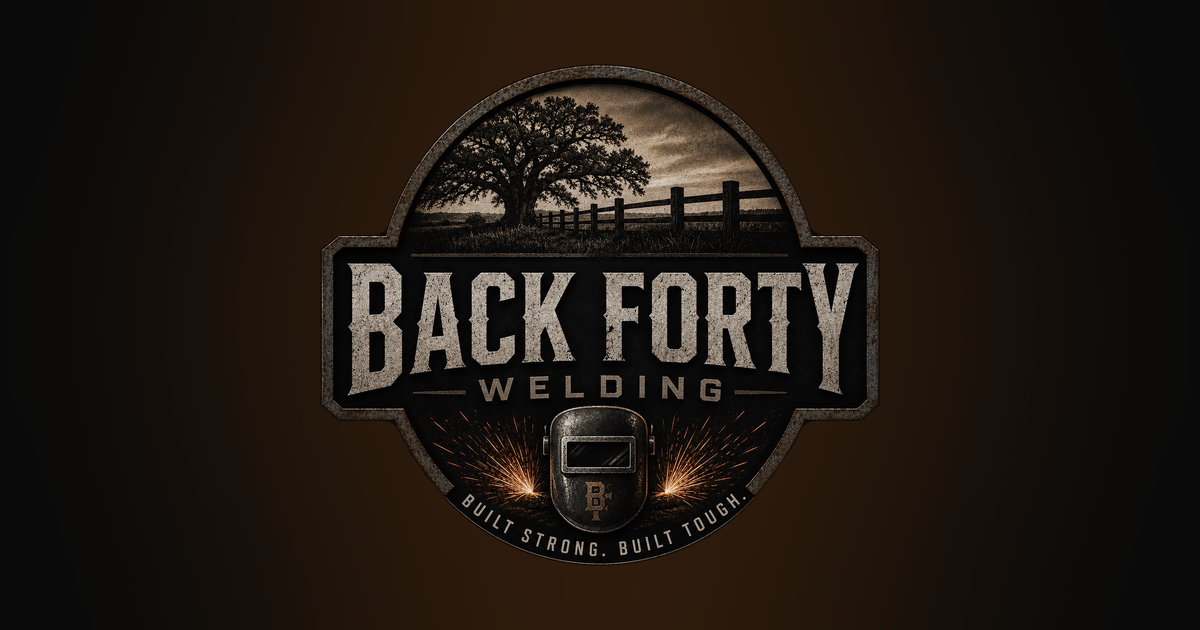
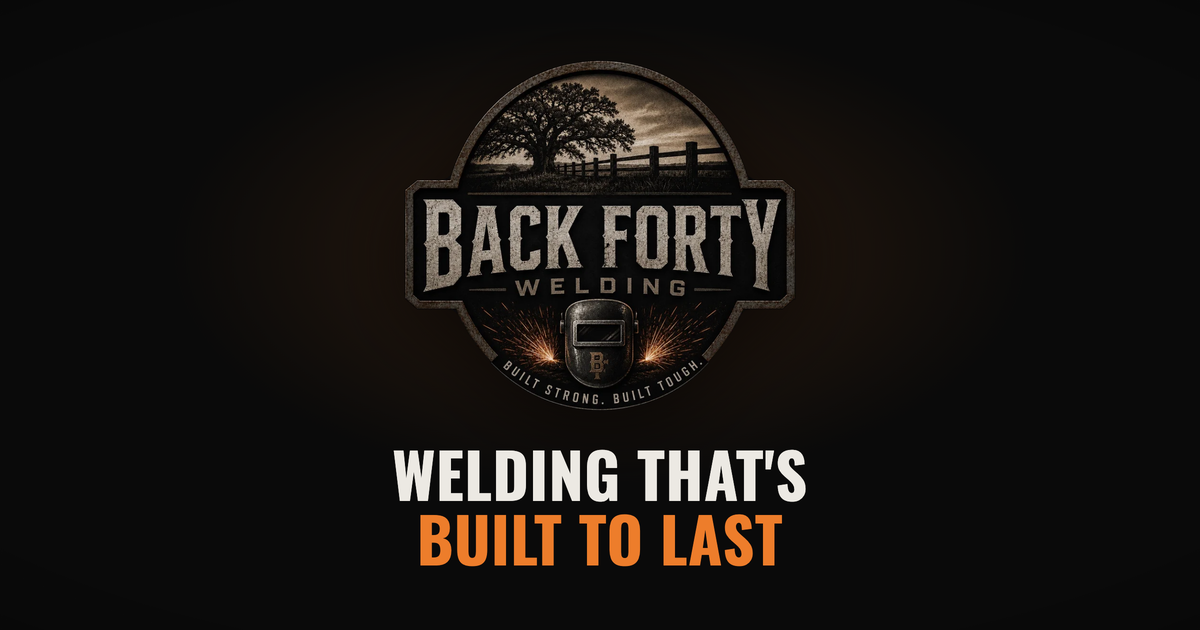
Update social share image and fix OG tags
New OG image: logo badge on black with "WELDING THAT'S BUILT TO LAST"
(Built to Last in brand orange), matching the site hero. Switch og:image
and twitter:image to absolute URLs and add image dimensions/alt so the
preview card renders on Facebook, LinkedIn, iMessage, etc.

Changed region(s): [[0.2467, 0.0, 0.74, 1.0]]

diff --git a/index.html b/index.html
@@ -15,11 +15,15 @@
 <meta property="og:type" content="website">
 <meta property="og:title" content="Back Forty Welding | Built Strong. Built Tough.">
 <meta property="og:description" content="Licensed and insured, OSHA 30 mobile welding and pipework. 24/7 service across Florida and beyond. Call (904) 625-4358 for a free quote.">
-<meta property="og:image" content="og-image.png">
+<meta property="og:url" content="https://www.backfortywelding.com/">
+<meta property="og:image" content="https://www.backfortywelding.com/og-image.png">
+<meta property="og:image:width" content="1200">
+<meta property="og:image:height" content="630">
+<meta property="og:image:alt" content="Back Forty Welding - Welding That's Built to Last">
 <meta name="twitter:card" content="summary_large_image">
 <meta name="twitter:title" content="Back Forty Welding | Built Strong. Built Tough.">
 <meta name="twitter:description" content="Licensed and insured, OSHA 30 mobile welding and pipework. 24/7 service across Florida and beyond.">
-<meta name="twitter:image" content="og-image.png">
+<meta name="twitter:image" content="https://www.backfortywelding.com/og-image.png">
 
 <link rel="preconnect" href="https://fonts.googleapis.com">
 <link rel="preconnect" href="https://fonts.gstatic.com" crossorigin>
